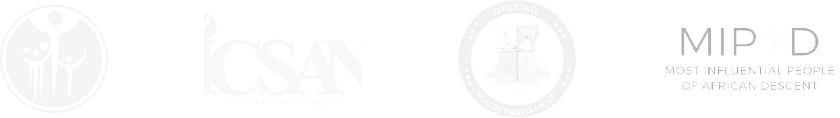
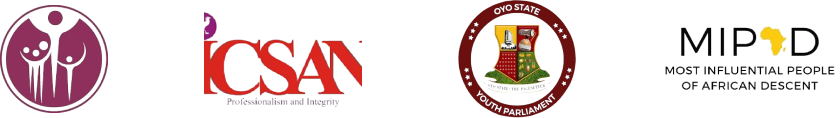
version 1.8

diff --git a/src/components/Footer/styles.css b/src/components/Footer/styles.css
@@ -2,7 +2,7 @@
 	/* margin-top: 3rem; */
 	width: 100%;
 	padding: 1rem;
-	background-color: var(--body-color);
+	background-color: var(--nav-bg);
 }
 
 .footer-container .footer-header {
@@ -30,14 +30,14 @@
 	text-decoration: none;
 	font-size: 0.9rem;
 	font-weight: normal;
-	color: white;
+	color: var(--body-color);
 	opacity: 90%;
 }
 
 /* second_box */
 .footer-container .second_box {
-	background-color: var(--first-color);
-	background-color: #0c0c0c;
+	background-color: #f5f5f5;
+	
 	padding: 5rem 0;
 }
 
@@ -54,7 +54,7 @@
 	font-size: 30px;
 	line-height: 45px;
 	font-weight: 700;
-	color: #fff;
+	color: var(--body-color);
 }
 
 .footer-container .second_box .registration_box {
@@ -75,7 +75,7 @@
 	text-transform: lowercase;
 	background-color: transparent;
 	letter-spacing: 2px;
-	color: #f2f2f2;
+	color: var(--body-color);
 }
 
 .email_box::placeholder {
@@ -148,7 +148,7 @@
 
 .footer-container .last_box .social_icon {
 	font-size: 20px;
-	color: white;
+	color: var(--body-color);
 	cursor: pointer;
 	transition: transform 0.3s ease, color 0.3s ease;
 }

diff --git a/src/components/Footer/Footer.jsx b/src/components/Footer/Footer.jsx
@@ -3,7 +3,7 @@ import { FaFacebook, FaTwitter, FaInstagram, FaLinkedin } from "react-icons/fa";
 import { NavLink } from "react-router-dom";
 import "./styles.css";
 
-import logo from "../../Assets/logo.jpeg";
+import logo from "../../Assets/logo.png";
 import { Button, TextField } from "@mui/material";
 
 const Footer = () => {
